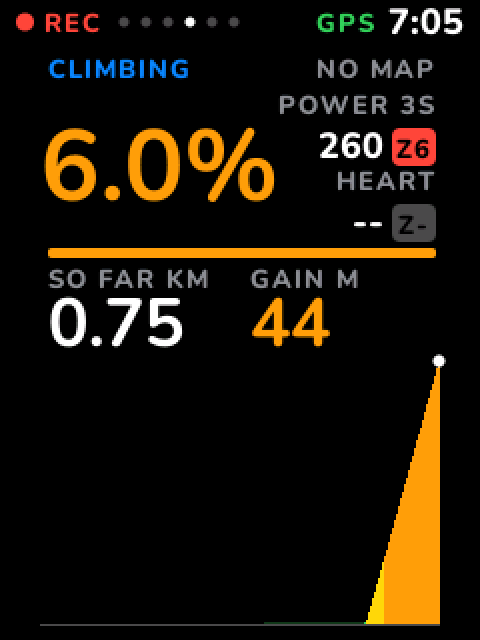
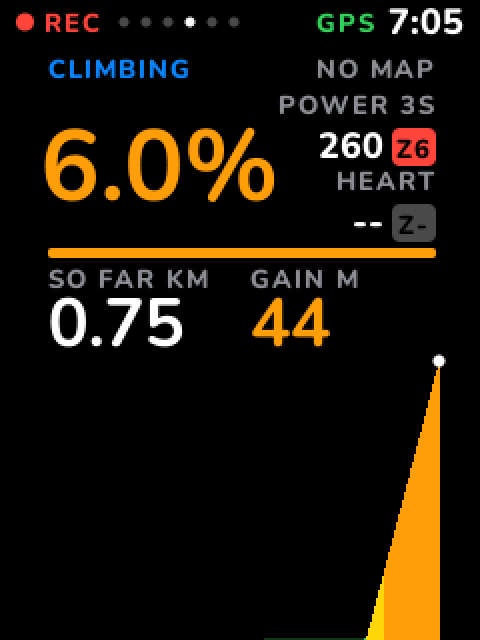
fix(vana): ride charts run to the screen's bottom edge
The workout chart stopped 12 rows short with the white now-bar under it,
the lap bars stood on a grey baseline 8 rows up, and the climb profile
ended on a ground line 8 rows up. Each left a stray line along the
bottom of the screen.

All three now run to the edge. The workout now-bar moves over the step
on now, and its tallest bar leaves room for it.

diff --git a/apps/vana/src/screens/ride/workout.rs b/apps/vana/src/screens/ride/workout.rs
@@ -57,16 +57,19 @@ const NEXT_BASE: usize = PROGRESS_TOP + PROGRESS_HEIGHT + 22;
 /// Rows where a tap adds to the step: the time left and its progress.
 pub const EXTEND_ROWS: core::ops::Range<usize> =
     VERDICT_BASE + 4..PROGRESS_TOP + PROGRESS_HEIGHT + 8;
-/// The chart reaches into the toast band, as the other charts do.
+/// The chart runs down to the screen's edge, into the toast band, as the
+/// other charts do.
 pub(super) const CHART_TOP: usize = NEXT_BASE + 10;
-pub(super) const CHART_BOTTOM: usize = BODY.bottom - 12;
+pub(super) const CHART_BOTTOM: usize = BODY.bottom;
 const CHART_HEIGHT: usize = CHART_BOTTOM - CHART_TOP;
-/// The white bar under the step on now.
-const NOW_TOP: usize = CHART_BOTTOM + 3;
+/// The white bar over the step on now, this many rows clear of its bar.
 const NOW_HEIGHT: usize = 3;
+const NOW_GAP: usize = 2;
+/// The tallest bar stops this far down, so the bar over it fits.
+const NOW_ROOM: usize = NOW_HEIGHT + NOW_GAP;
+const BAR_HEIGHT: usize = CHART_HEIGHT - NOW_ROOM;
 pub(super) const CHART_WIDTH: usize = RIGHT - LEFT;
-const _: () = assert!(CHART_HEIGHT >= 20, "the workout chart needs some height");
-const _: () = assert!(NOW_TOP + NOW_HEIGHT <= BODY.bottom);
+const _: () = assert!(BAR_HEIGHT >= 20, "the workout chart needs some height");
 /// Untimed steps take this much chart width, as if they lasted this long.
 const OPEN_WEIGHT_S: u32 = 120;
 /// A target of this much intensity fills the chart's height.
@@ -84,6 +87,8 @@ pub struct Chart {
     palette: heapless::Vec<u16, PALETTE>,
     /// The columns of the step on now.
     now: (usize, usize),
+    /// The rows of the white bar over it, from `CHART_TOP`.
+    now_rows: (usize, usize),
 }
 
 /// Colours a chart can use: each zone, cadence and none, lit and at 25 %.
@@ -116,6 +121,7 @@ impl Chart {
         colors: [0; CHART_WIDTH],
         palette: heapless::Vec::new(),
         now: (0, 0),
+        now_rows: (0, 0),
     };
 }
 
@@ -605,7 +611,7 @@ pub fn chart(player: &Player, profile: &TrainingProfile) -> Chart {
                 None => (color, pct, ahead),
             };
             let color = if dim { blend(color, BLACK, 4) } else { color };
-            let height = (pct.min(FULL_PCT) as usize * CHART_HEIGHT / FULL_PCT as usize).max(3);
+            let height = (pct.min(FULL_PCT) as usize * BAR_HEIGHT / FULL_PCT as usize).max(3);
             chart.tops[column] = (CHART_HEIGHT - height) as u8;
             chart.colors[column] = chart.index(color);
         }
@@ -613,13 +619,18 @@ pub fn chart(player: &Player, profile: &TrainingProfile) -> Chart {
             chart.now = stair;
         }
     }
+    if let Some(&top) = chart.tops[chart.now.0..chart.now.1].iter().min() {
+        let bottom = usize::from(top) - NOW_GAP;
+        chart.now_rows = (bottom - NOW_HEIGHT, bottom);
+    }
     chart
 }
 
-/// Paint the chart's row: its bars, then the white bar under the step on now.
+/// Paint the chart's row: the white bar over the step on now, then the bars.
 pub(super) fn paint_chart(chart: &Chart, row: &mut Row) {
     let y = row.y();
-    if (NOW_TOP..NOW_TOP + NOW_HEIGHT).contains(&y) && chart.now.1 > chart.now.0 {
+    let (low, high) = chart.now_rows;
+    if (CHART_TOP + low..CHART_TOP + high).contains(&y) {
         row.span(LEFT + chart.now.0..LEFT + chart.now.1, WHITE);
         return;
     }
@@ -650,12 +661,11 @@ pub(super) fn chart_pixel(chart: &Chart, x: usize, y: usize) -> u16 {
         return BLACK;
     }
     let column = x - LEFT;
-    if (NOW_TOP..NOW_TOP + NOW_HEIGHT).contains(&y) {
-        return if (chart.now.0..chart.now.1).contains(&column) {
-            WHITE
-        } else {
-            BLACK
-        };
+    let (low, high) = chart.now_rows;
+    if (CHART_TOP + low..CHART_TOP + high).contains(&y)
+        && (chart.now.0..chart.now.1).contains(&column)
+    {
+        return WHITE;
     }
     if (CHART_TOP..CHART_BOTTOM).contains(&y)
         && chart.tops[column] != EMPTY
@@ -884,6 +894,31 @@ mod tests {
                 player.skip();
             }
         }
+    }
+
+    #[test]
+    fn bars_reach_the_bottom_with_the_now_bar_over_the_step_on_now() {
+        let mut player = Player::new(VO2_MAX);
+        player.skip();
+        ride(&mut player, 30, 240);
+        let view = page(&player, Some(240));
+        let chart = view.chart();
+        let row = |y: usize| -> std::vec::Vec<u16> {
+            (LEFT..RIGHT).map(|x| chart_pixel(chart, x, y)).collect()
+        };
+        let last = row(BODY.bottom - 1);
+        assert!(
+            (0..CHART_WIDTH)
+                .filter(|&c| chart.tops[c] != EMPTY)
+                .all(|c| last[c] != BLACK),
+            "every step's bar reaches the screen's last row"
+        );
+        let (from, to) = chart.now;
+        let white = |y: usize| row(y)[from..to].iter().all(|&pixel| pixel == WHITE);
+        let top = CHART_TOP + usize::from(chart.tops[from]);
+        assert!(white(top - NOW_GAP - 1), "the now bar sits over its step");
+        assert!(!white(top), "the now bar leaves the step's bar visible");
+        assert!((BODY.bottom - 6..BODY.bottom).all(|y| !row(y).contains(&WHITE)));
     }
 
     #[test]

diff --git a/apps/vana/src/screens/ride/lap.rs b/apps/vana/src/screens/ride/lap.rs
@@ -8,8 +8,8 @@ use super::{CELL_PITCH, LEFT, RIGHT, cell, kilometres, lap_time, speed, whole};
 use crate::ride::laps::{HISTORY, Lap};
 use crate::screens::canvas::{Canvas, Shape};
 use crate::screens::chrome::{
-    ACCENT, Align, BLACK, BODY, GREEN, HEART, LARGE, POWER, Rect, SECONDARY, SPEED, TERTIARY,
-    VALUE, WHITE, blend,
+    ACCENT, Align, BLACK, BODY, GREEN, HEART, LARGE, POWER, Rect, SECONDARY, SPEED, VALUE, WHITE,
+    blend,
 };
 use crate::screens::workout::{Text, View};
 use core::fmt::Write;
@@ -20,9 +20,9 @@ const HEAD: usize = 40;
 const TIME: usize = HEAD + 4 + LARGE.cap as usize;
 /// The first band of cells; four follow.
 const FIRST: usize = TIME + 9;
-/// Lap bars stand on a `TERTIARY` baseline across the page's width, in the
-/// toast band: a toast covers them for a moment.
-const CHART_BOTTOM: usize = 312;
+/// Lap bars stand on the screen's edge, in the toast band: a toast covers
+/// them for a moment.
+const CHART_BOTTOM: usize = super::BODY.bottom;
 const CHART_TOP: usize = FIRST + 3 * CELL_PITCH + 41 + 8;
 const CHART_HEIGHT: usize = CHART_BOTTOM - CHART_TOP;
 /// Each lap gets an equal slot of the width; its bar is centred in it.
@@ -174,16 +174,6 @@ fn chart(canvas: &mut Canvas, finished: &[LapBar], open: LapBar) {
     if best == 0 {
         return;
     }
-    canvas.shape(Shape::Bar {
-        rect: Rect {
-            left: LEFT,
-            top: CHART_BOTTOM,
-            right: RIGHT,
-            bottom: CHART_BOTTOM + 1,
-        },
-        radius: 0,
-        color: TERTIARY,
-    });
     let count = finished.len() + 1;
     let mut capped = false;
     for (index, bar) in bars.enumerate() {
@@ -321,7 +311,14 @@ mod tests {
             .shapes
             .iter()
             .filter_map(|shape| match shape {
-                Shape::Bar { rect, color, .. } if *color != TERTIARY => {
+                Shape::Bar { rect, color, .. } => {
+                    if *color != WHITE {
+                        assert_eq!(
+                            rect.bottom,
+                            super::super::BODY.bottom,
+                            "bars stand on the edge"
+                        );
+                    }
                     Some((rect.left, rect.height(), *color))
                 }
                 _ => None,
@@ -383,14 +380,10 @@ mod tests {
                 (lefts(3), CHART_HEIGHT * 240 / 300, POWER),
             ]
         );
-        // The bars span the page's width, a baseline under them.
         assert!(
-            lefts(0) - LEFT < MAX_BAR_WIDTH && RIGHT - (lefts(3) + MAX_BAR_WIDTH) < MAX_BAR_WIDTH
+            lefts(0) - LEFT < MAX_BAR_WIDTH && RIGHT - (lefts(3) + MAX_BAR_WIDTH) < MAX_BAR_WIDTH,
+            "the bars span the page's width"
         );
-        assert!(view.canvas().shapes.iter().any(|shape| matches!(
-            shape,
-            Shape::Bar { rect, color: TERTIARY, .. } if rect.left == LEFT && rect.right == RIGHT
-        )));
         // Seventeen bars still keep their gaps and stay inside the margins.
         for count in 1..=BARS {
             let mut right = LEFT;

diff --git a/apps/vana/src/screens/ride/climb.rs b/apps/vana/src/screens/ride/climb.rs
@@ -63,9 +63,9 @@ const CHART_RIGHT: usize = BODY.right - 6;
 const CHART_LEFT: usize = CHART_RIGHT - PROFILE_LEN;
 const _: () = assert!(CHART_LEFT >= BODY.left, "the profile needs 200 columns");
 const CHART_TOP: usize = CELLS + CELL_PITCH - 4;
-/// The baseline row without a progress bar; the fill ends above it. The
-/// chart runs into the toast band, where a toast covers it for a moment.
-const CHART_BOTTOM: usize = BODY.bottom - 8;
+/// Without a progress bar the fill runs to the screen's edge, into the toast
+/// band, where a toast covers it for a moment.
+const CHART_BOTTOM: usize = BODY.bottom;
 /// With a progress bar under the chart, and FOOT, the share and TOP under it.
 const BAR_LABELS: usize = BODY.bottom - 3;
 const BAR_BOTTOM: usize = BAR_LABELS - CAPTION.cap as usize - 4;
